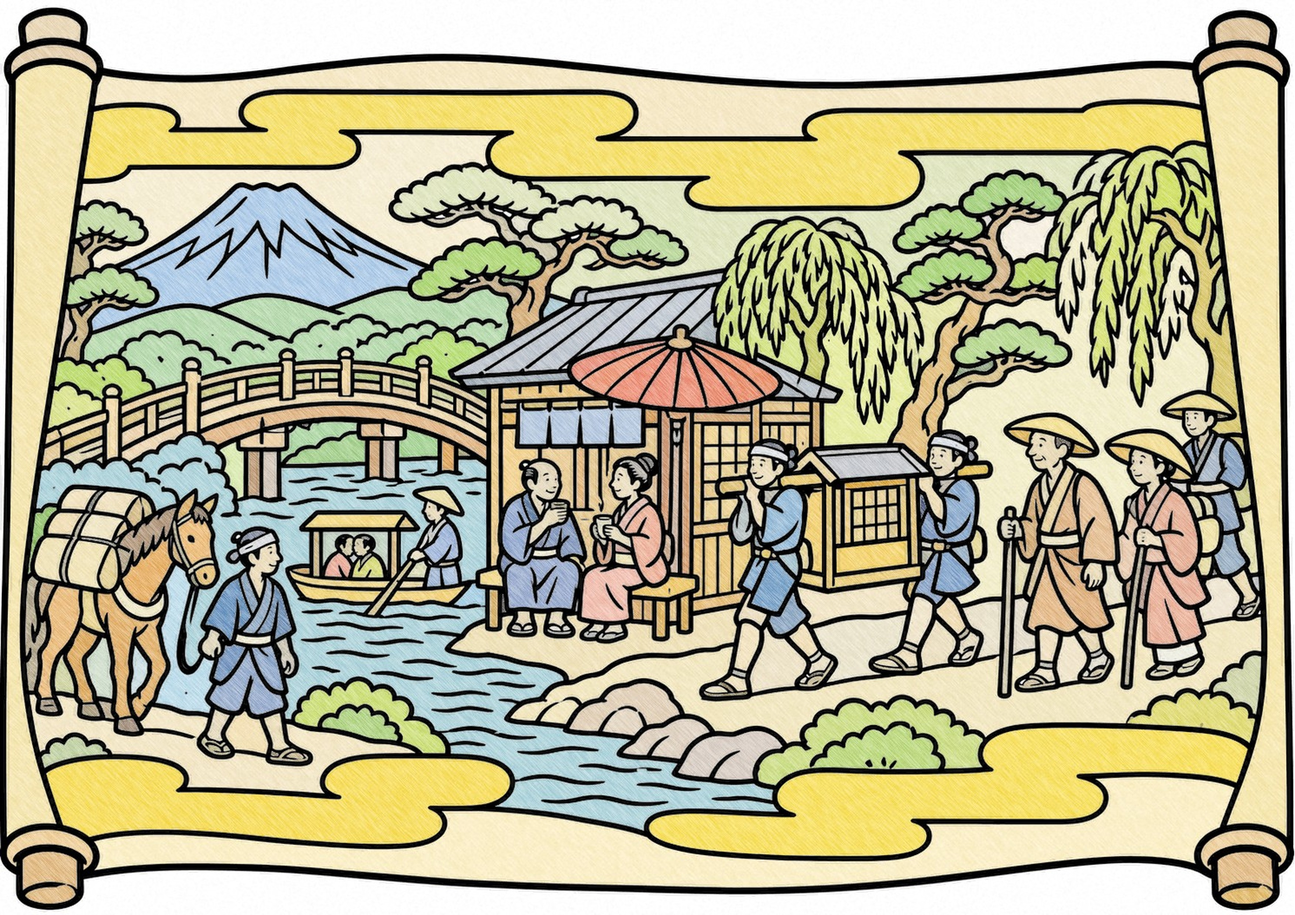
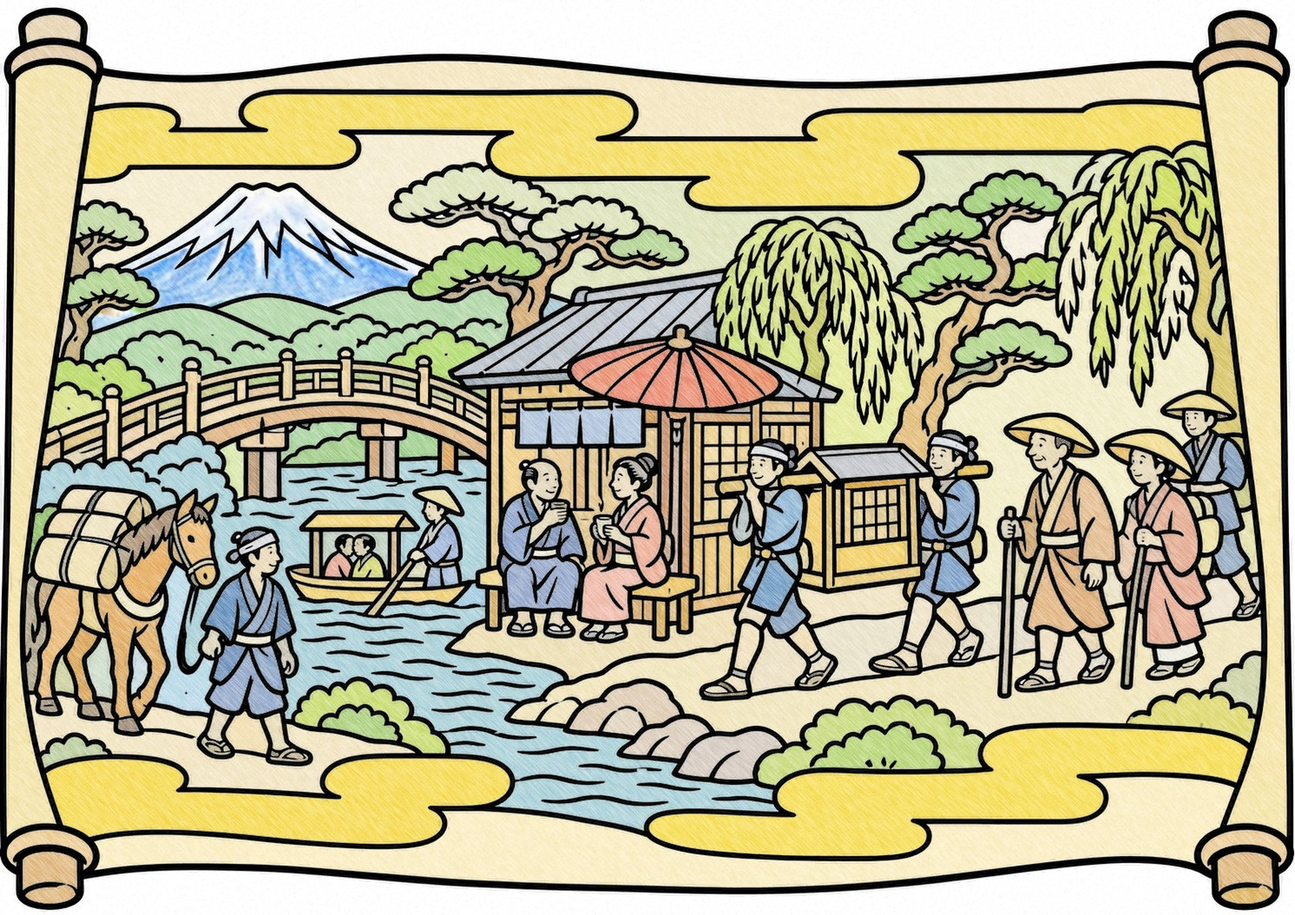
街道の絵巻の色見本：富士山の雪と山肌を塗り分け

Changed region(s): [[0.0932, 0.1863, 0.3418, 0.3415], [0.0621, 0.3415, 0.0932, 0.3726]]

diff --git a/data.js b/data.js
@@ -1269,7 +1269,7 @@ window.NURIE_LIST = [
   { season: "冬", genre: "風景", title: "湯気の向こうの雪景色", diff: "中級", file: "yunomi_yukigeshiki_chu.png", sample: "yunomi_yukigeshiki_chu_sample.jpg", added: "2026-11", date: "2026-11-03", v: "1793702323299" },
   { season: "冬", genre: "花", title: "水仙と岬の灯台", diff: "初級", file: "suisen_toudai_sho.png", sample: "suisen_toudai_sho_sample.jpg", added: "2026-11", date: "2026-11-03", v: "1793702323299" },
   { season: "通年", genre: "その他", title: "松と鶴の屏風", diff: "中級", file: "byobu_matsu_tsuru_chu.png", sample: "byobu_matsu_tsuru_chu_sample.jpg", added: "2026-11", date: "2026-11-03", v: "1793704304499" },
-  { season: "通年", genre: "風景", title: "街道の絵巻", diff: "上級", file: "kaidou_emaki_jo.png", sample: "kaidou_emaki_jo_sample.jpg", added: "2026-11", date: "2026-11-03", v: "1793704304499" },
+  { season: "通年", genre: "風景", title: "街道の絵巻", diff: "上級", file: "kaidou_emaki_jo.png", sample: "kaidou_emaki_jo_sample.jpg", added: "2026-11", date: "2026-11-03", v: "1793705238534" },
   { season: "通年", genre: "風景", title: "富士山の見える銭湯", diff: "上級", file: "sento_penkie_jo.png", sample: "sento_penkie_jo_sample.jpg", added: "2026-11", date: "2026-11-03", v: "1793704304499" },
   { season: "通年", genre: "その他", title: "千代紙の折り鶴", diff: "中級", file: "orizuru_chiyogami2_chu.png", sample: "orizuru_chiyogami2_chu_sample.jpg", added: "2026-11", date: "2026-11-03", v: "1793704472037" },
 ];
